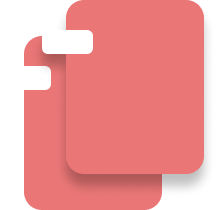
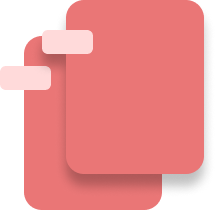
style(dark mode) add missing image variant

Changed region(s): [[0.1944, 0.1429, 0.4444, 0.2571], [0.0, 0.3143, 0.25, 0.4286]]

diff --git a/lib/src/home/home_view.dart b/lib/src/home/home_view.dart
@@ -2,7 +2,6 @@ import 'package:dash_pdf/src/service/dynamic_assets_path.dart';
 import 'package:flutter/material.dart';
 import 'package:flutter/services.dart';
 import 'package:flutter_svg/svg.dart';
-
 class HomeView extends StatelessWidget {
   const HomeView({super.key});
 
@@ -12,26 +11,38 @@ class HomeView extends StatelessWidget {
   Widget build(BuildContext context) {
     final ThemeData theme = Theme.of(context);
 
+    final pathCompress = DynamicAssetsPath(
+      fileName: 'compress.png',
+      brightness: theme.brightness,
+      isUniqueFile: false,
+    );
+
+    final pathMerge = DynamicAssetsPath(
+      fileName: 'merge.png',
+      brightness: theme.brightness,
+      isUniqueFile: true,
+    );
+
     return Scaffold(
       backgroundColor: theme.colorScheme.surface,
-      body: const Padding(
-        padding: EdgeInsets.all(16.0), // Adjust the padding as needed
+      body: Padding(
+        padding: const EdgeInsets.all(16.0), // Adjust the padding as needed
         child: SingleChildScrollView(
           child: Column(
             children: [
-              Header(),
-              SizedBox(height: 20), // Add some space between header and cards
+              const Header(),
+              const SizedBox(height: 20), // Add some space between header and cards
               Center(
                 child: Wrap(
                   alignment: WrapAlignment.center,
                   spacing: 20.0, // Adjust the spacing between cards as needed
                   children: [
                     OptionCard(
-                      illustrationPath: 'assets/images/merge.png',
+                      illustrationPath: pathMerge.path,
                       illustrationAlt: 'Merge PDF',
                     ),
                     OptionCard(
-                      illustrationPath: 'assets/images/compress.png',
+                      illustrationPath: pathCompress.path,
                       illustrationAlt: 'Compress PDF',
                     ),
                     // Add more OptionCard widgets as needed
@@ -60,31 +71,33 @@ class OptionCard extends StatelessWidget {
   @override
   Widget build(BuildContext context) {
     final ThemeData theme = Theme.of(context);
-    return Card.outlined(
-        color: theme.colorScheme.surface,
-        borderOnForeground: true,
-        child: Padding(
-          padding: const EdgeInsets.all(16.0),
-          child: Column(
-            children: [
-              CardIllustration(
-                path: illustrationPath,
-                alt: illustrationAlt,
-              ),
-              const SizedBox(height: 16),
-              Text(
-                illustrationAlt,
-                style: TextStyle(
-                  color: theme.colorScheme.onSurfaceVariant,
-                  fontWeight: FontWeight.bold,
-                  fontSize: theme.textTheme.titleLarge?.fontSize,
-                ),
-              )
 
-              // Add more widgets as needed
-            ],
-          ),
-        ));
+    return Card.outlined(
+      color: theme.colorScheme.surface,
+      borderOnForeground: true,
+      child: Padding(
+        padding: const EdgeInsets.all(16.0),
+        child: Column(
+          children: [
+            CardIllustration(
+              path: illustrationPath,
+              alt: illustrationAlt,
+            ),
+            const SizedBox(height: 16),
+            Text(
+              illustrationAlt,
+              style: TextStyle(
+                color: theme.colorScheme.onSurfaceVariant,
+                fontWeight: FontWeight.bold,
+                fontSize: theme.textTheme.titleLarge?.fontSize,
+              ),
+            )
+
+            // Add more widgets as needed
+          ],
+        ),
+      ),
+    );
   }
 }
 
@@ -93,10 +106,10 @@ class CardIllustration extends StatelessWidget {
   final String alt;
 
   const CardIllustration({
-    Key? key,
+    super.key,
     required this.path,
     required this.alt,
-  }) : super(key: key);
+  });
 
   @override
   Widget build(BuildContext context) {
@@ -122,7 +135,6 @@ class Header extends StatelessWidget {
       brightness: theme.brightness,
       isUniqueFile: false,
     );
-
 
     return SvgPicture.asset(
       path.path, // Use path.path instead of a hardcoded string
